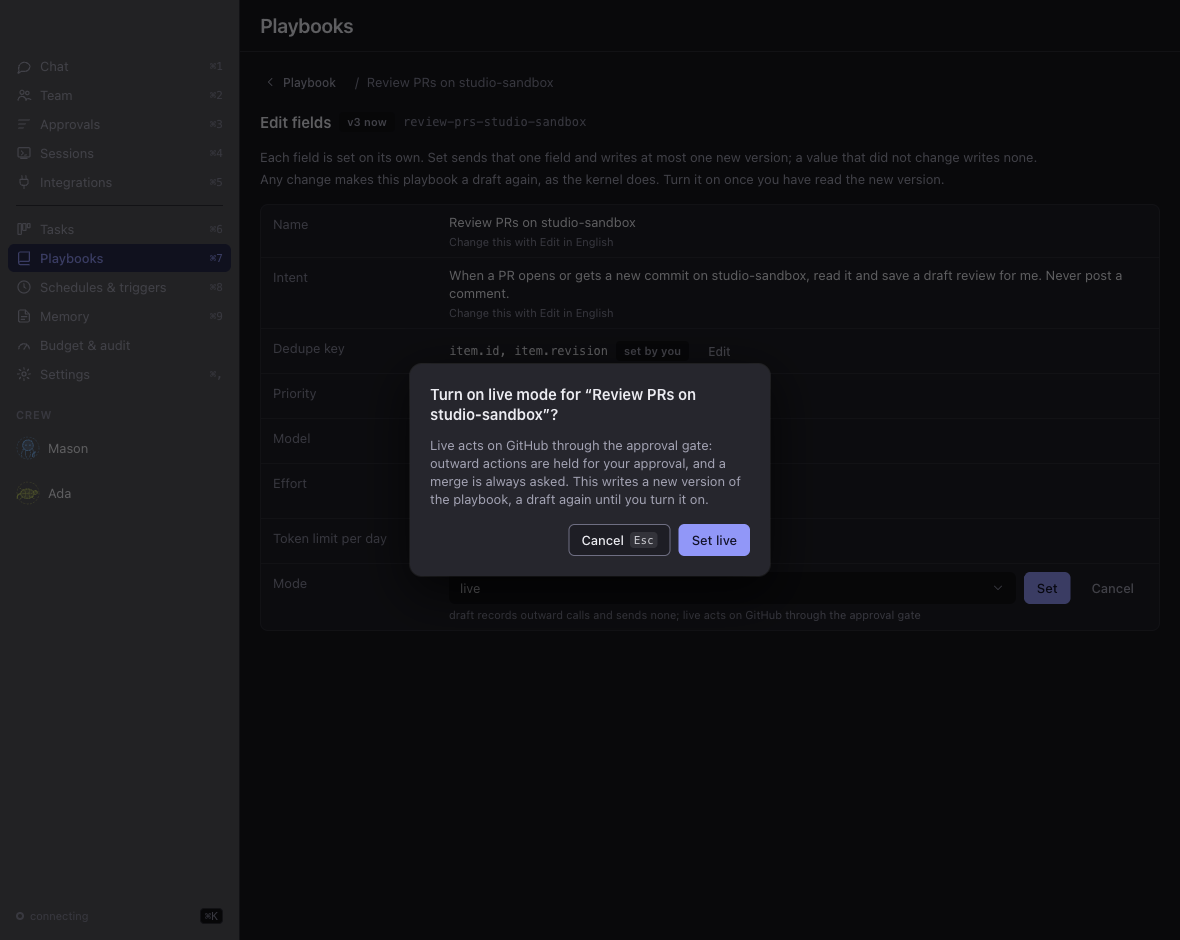
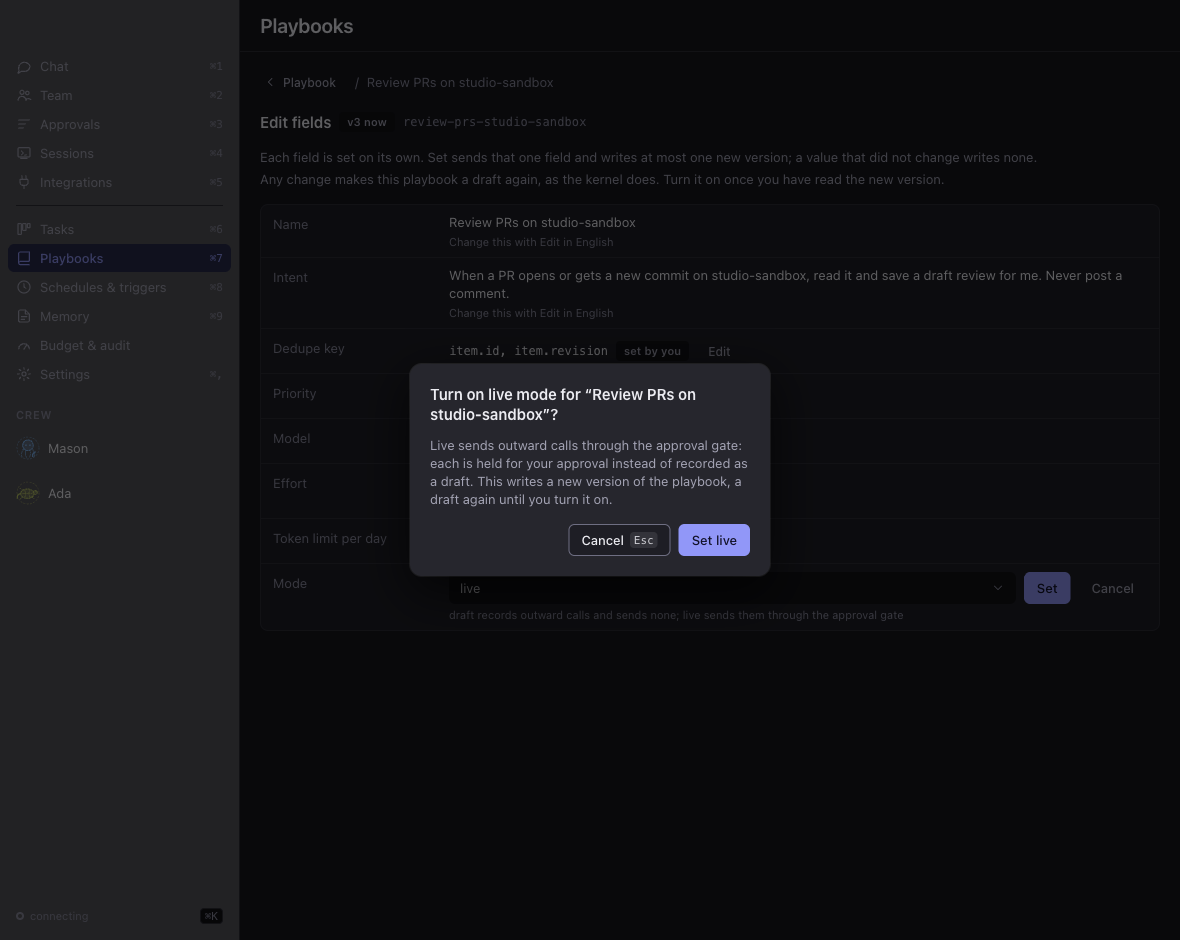
docs(evidence): regenerate phase 8 mode screenshots with the connector-agnostic copy

Changed region(s): [[0.3661, 0.4628, 0.6407, 0.5553]]

diff --git a/docs/evidence/phase-8-polish/playbooks/README.md b/docs/evidence/phase-8-polish/playbooks/README.md
@@ -17,7 +17,7 @@ The approved design is `docs/design/mockups/phase-8.html` (views `playbook-mode`
 1. **The confirm sends the write; it does not file a held enable.** The mockup's dialog reads "Request live enable" and says nothing switches on until the enable is allowed in Approvals. The kernel as built (item 04) takes the owner's `live` on an already enabled playbook and stores it as the next version, a draft again, or refuses it `live_needs_enable`; the enable approval comes earlier. The dialog says what the Set does (a new version, a draft again until the playbook is turned on) and its button is "Set live", so the words match the one request it sends.
 2. **Chat keeps Mode read-only.** The draft card in Chat shows the row without an Edit button; this folder covers the Playbooks screen only.
 3. **`merge_requirement` stays read-only** in the editor; its editor is a later item.
-4. **The mode copy names no connector.** The mockup says live "acts on GitHub"; `mode` is a connector-agnostic mechanism (`kernel/src/sessions/draft-mode.ts`), so the hint and the confirm say live sends outward calls through the approval gate, and the confirm makes no claim about merges (that is each playbook's `merge_requirement`). The PNGs in this folder were captured before this rewording and still show "acts on GitHub"; the regenerate command below refreshes them.
+4. **The mode copy names no connector.** The mockup says live "acts on GitHub"; `mode` is a connector-agnostic mechanism (`kernel/src/sessions/draft-mode.ts`), so the hint and the confirm say live sends outward calls through the approval gate, and the confirm makes no claim about merges (that is each playbook's `merge_requirement`). The PNGs in this folder were regenerated after this rewording, so they show the connector-agnostic copy.
 
 ## How to regenerate
 
